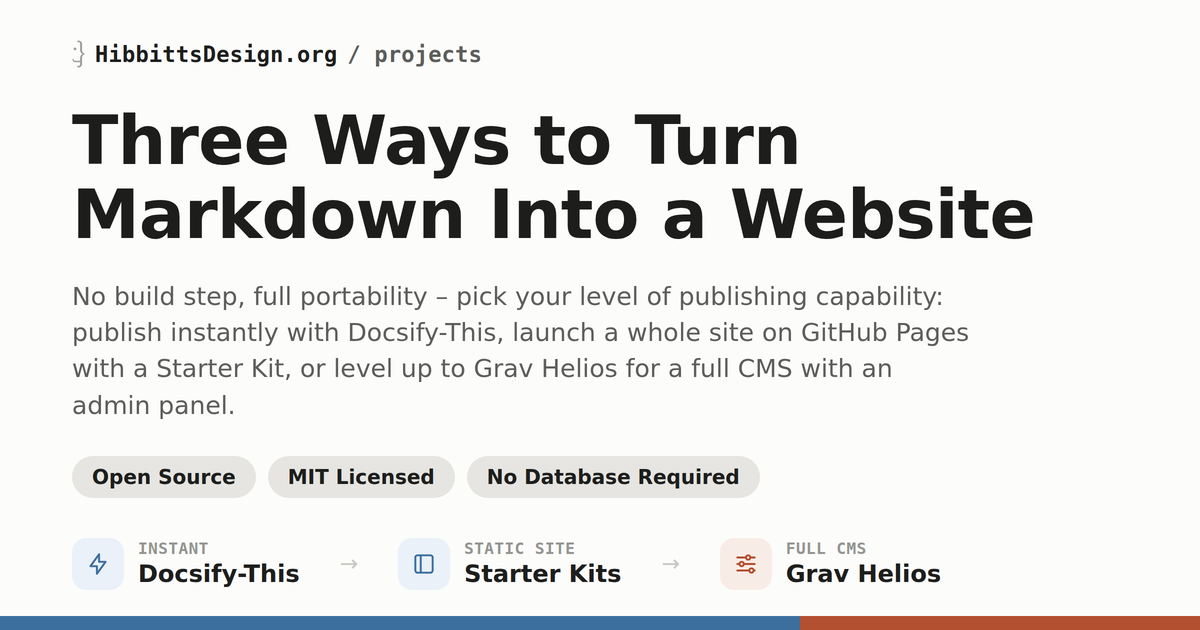
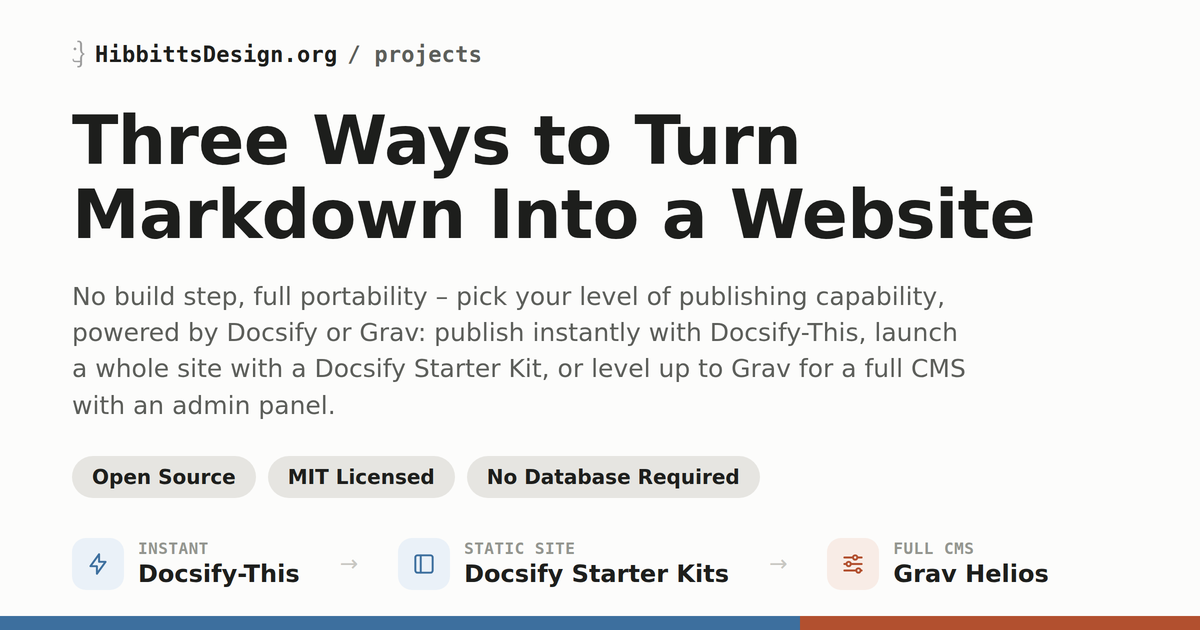
Various refinements.

diff --git a/index.html b/index.html
@@ -132,6 +132,7 @@
       <span class="badge plain">No Database Required</span>
     </div>
     <h1>Three Ways to Turn Markdown Into a Website</h1>
+    <p class="why" data-md>Your content stays as plain Markdown files you control, portable across every option below.</p>
     <p class="lede" data-md>No build step, full portability &ndash; pick your level of publishing capability, powered by [Docsify](https://docsify.js.org) or [Grav](https://getgrav.org): publish instantly with Docsify-This, launch a whole site on GitHub Pages with a Docsify Starter Kit, or level up to Grav for a full CMS with an admin panel. Everything here is free and open-source, including the Grav Helios skeletons, which require the paid Premium Helios theme.</p>
     <hr class="hero-rule">
 
@@ -194,7 +195,7 @@ Turn any Markdown file into a
         <div class="marker" aria-hidden="true"><svg viewBox="0 0 24 24" fill="none" stroke="currentColor" stroke-width="1.8" stroke-linecap="round" stroke-linejoin="round"><use href="#icon-sidebar"/></svg></div>
         <p class="label">Static Site &middot; <a href="https://docsify.js.org" target="_blank" rel="noopener">Docsify</a></p>
         <h3>Docsify Starter Kits</h3>
-        <p data-md>A whole repo, your own domain and CSS, zero build step</p>
+        <p data-md>A whole repository, your own domain and CSS, zero build step</p>
       </div>
       <!-- Category 3: Grav Helios (Course Hub & Open Reader) -->
       <div class="stop am">
@@ -214,7 +215,7 @@ Turn any Markdown file into a
       <span class="a tk">Docsify&#8209;This</span>
     </div>
     <div class="prow">
-      <p class="q" data-md>**I want my own domain or custom CSS,** with a whole site living in my own GitHub repo, deployed to GitHub Pages for free.</p>
+      <p class="q" data-md>**I want my own domain or custom CSS,** with a whole site living in my own GitHub repository (no coding needed), deployed to GitHub Pages for free.</p>
       <span class="a tk">Docsify Starter Kits</span>
     </div>
     <div class="prow">
@@ -273,7 +274,7 @@ Turn any Markdown file into a
           - Pre-styled cards, accordions, badges, banners & video embeds included
           - Embeds in Canvas, Moodle, Microsoft Teams, or any page
           - Free [Cartridge Converter](https://docsify-common-cartridge-converter.hibbittsdesign.org/) imports Canvas, Moodle & Brightspace courses (beta)
-          - Edit-on-GitHub workflow
+          - Edit-on-GitHub workflow &ndash; no coding required, just text files
         </ul>
         <div class="kit-grid">
           <div class="kit">
@@ -368,7 +369,7 @@ Turn any Markdown file into a
   <section class="more">
     <div class="badge-row more-badge"><span class="badge green">Free &amp; Open Source</span></div>
     <h2>A Cost-Free Way to Use Grav CMS</h2>
-    <p data-md>Course Hub and Open Reader both build on the paid [Grav Premium Helios theme](https://getgrav.org/premium/helios) – a purchase that directly funds continued development of the open-source Grav CMS itself. If you're looking for a completely free way to use Grav instead, these skeletons share the same Markdown-and-Git-Sync workflow and browser-based admin panel, all built on free, open-source themes and the newly released Grav 2 – plus one more free plugin that pairs with any Grav site, skeleton or not. The two course hub skeletons below also have a documented upgrade path into the paid Course Hub above, if you outgrow them:</p>
+    <p data-md>Course Hub and Open Reader both build on the paid [Grav Premium Helios theme](https://getgrav.org/premium/helios) – a purchase that directly funds continued development of the open-source Grav CMS itself. If you're looking for a completely free way to use Grav instead, these skeletons share the same Markdown-and-Git-Sync workflow and browser-based admin panel, come with example content already in place so you're editing rather than starting from a blank site, and are all built on free, open-source themes and the newly released Grav 2 – plus one more free plugin that pairs with any Grav site, skeleton or not. The two course hub skeletons below also have a documented upgrade path into the paid Course Hub above, if you outgrow them:</p>
     <ul class="more-list">
       <li><a href="https://github.com/hibbitts-design/grav-skeleton-course-hub" target="_blank" rel="noopener">Open Course Hub</a><span>&ndash; a single-course hub with weekly module navigation</span></li>
       <li><a href="https://github.com/hibbitts-design/grav-skeleton-multicourse-hub" target="_blank" rel="noopener">Open MultiCourse Hub</a><span>&ndash; the same, plus a top-level course-selection layer for managing several courses</span></li>

diff --git a/assets/styles.css b/assets/styles.css
@@ -129,6 +129,12 @@ button:focus-visible,
 /* hero */
 .hero{padding:76px 0 20px;}
 .eyebrow-row{margin:0 0 22px;}
+.hero .why{
+  margin:18px 0 0;
+  font-size:1rem;
+  color:var(--ink-soft);
+  max-width:48ch;
+}
 .hero h1{
   font-size:clamp(2.9rem, 6vw, 4.6rem);
   line-height:1.05;
